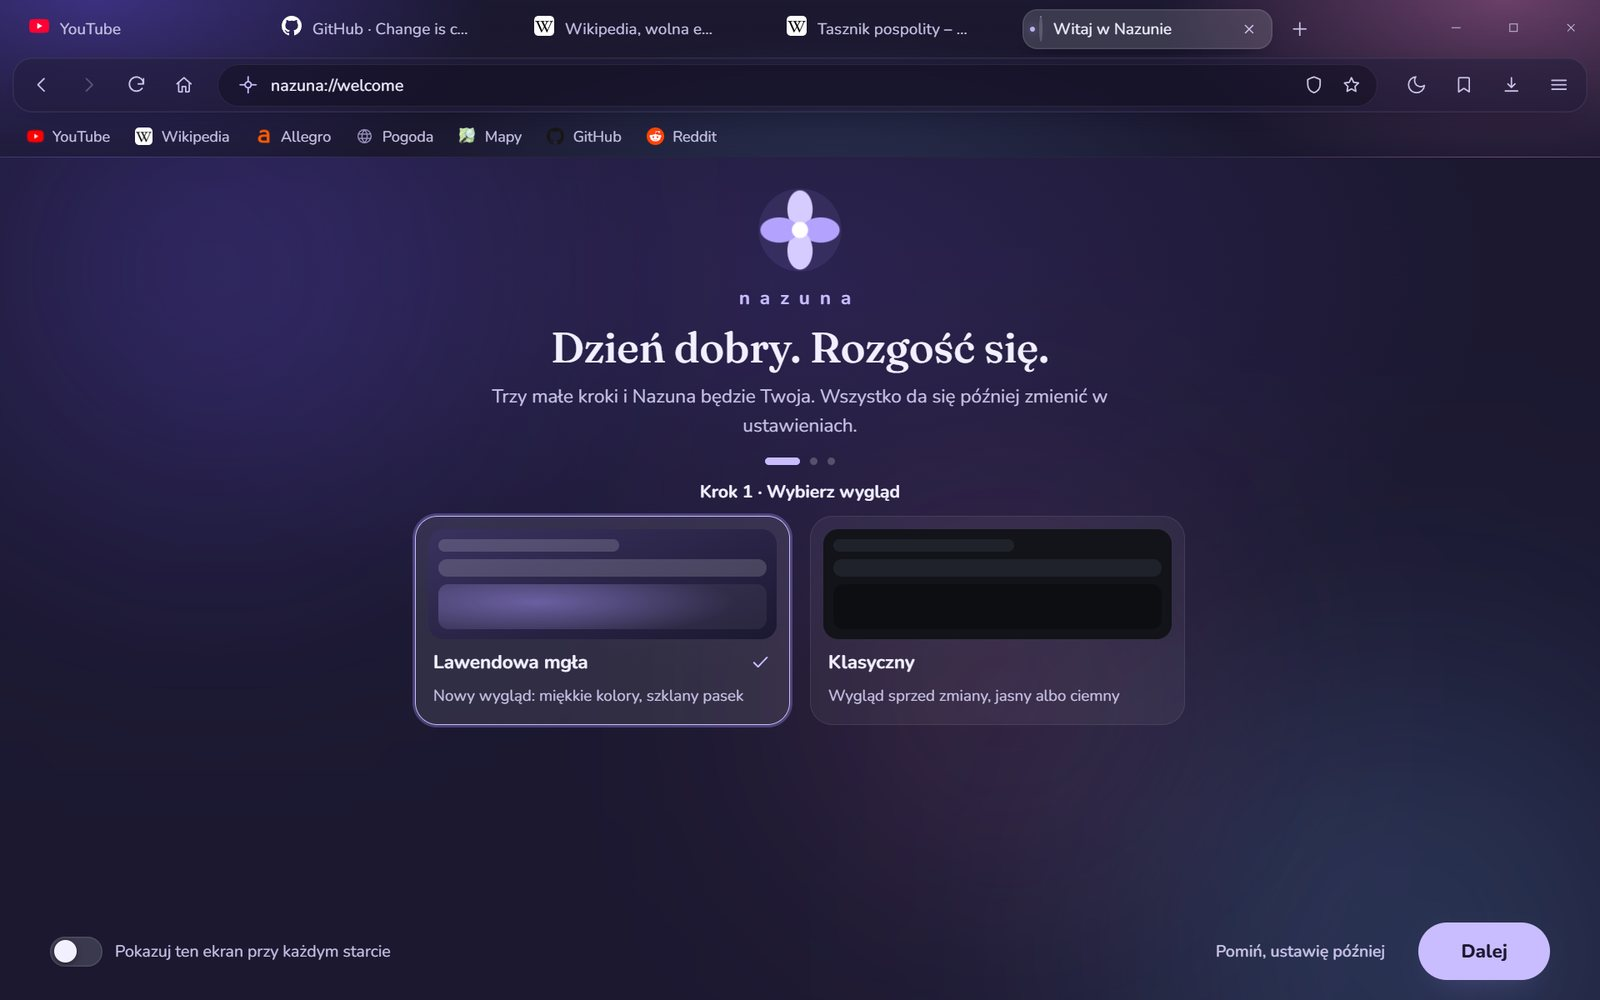
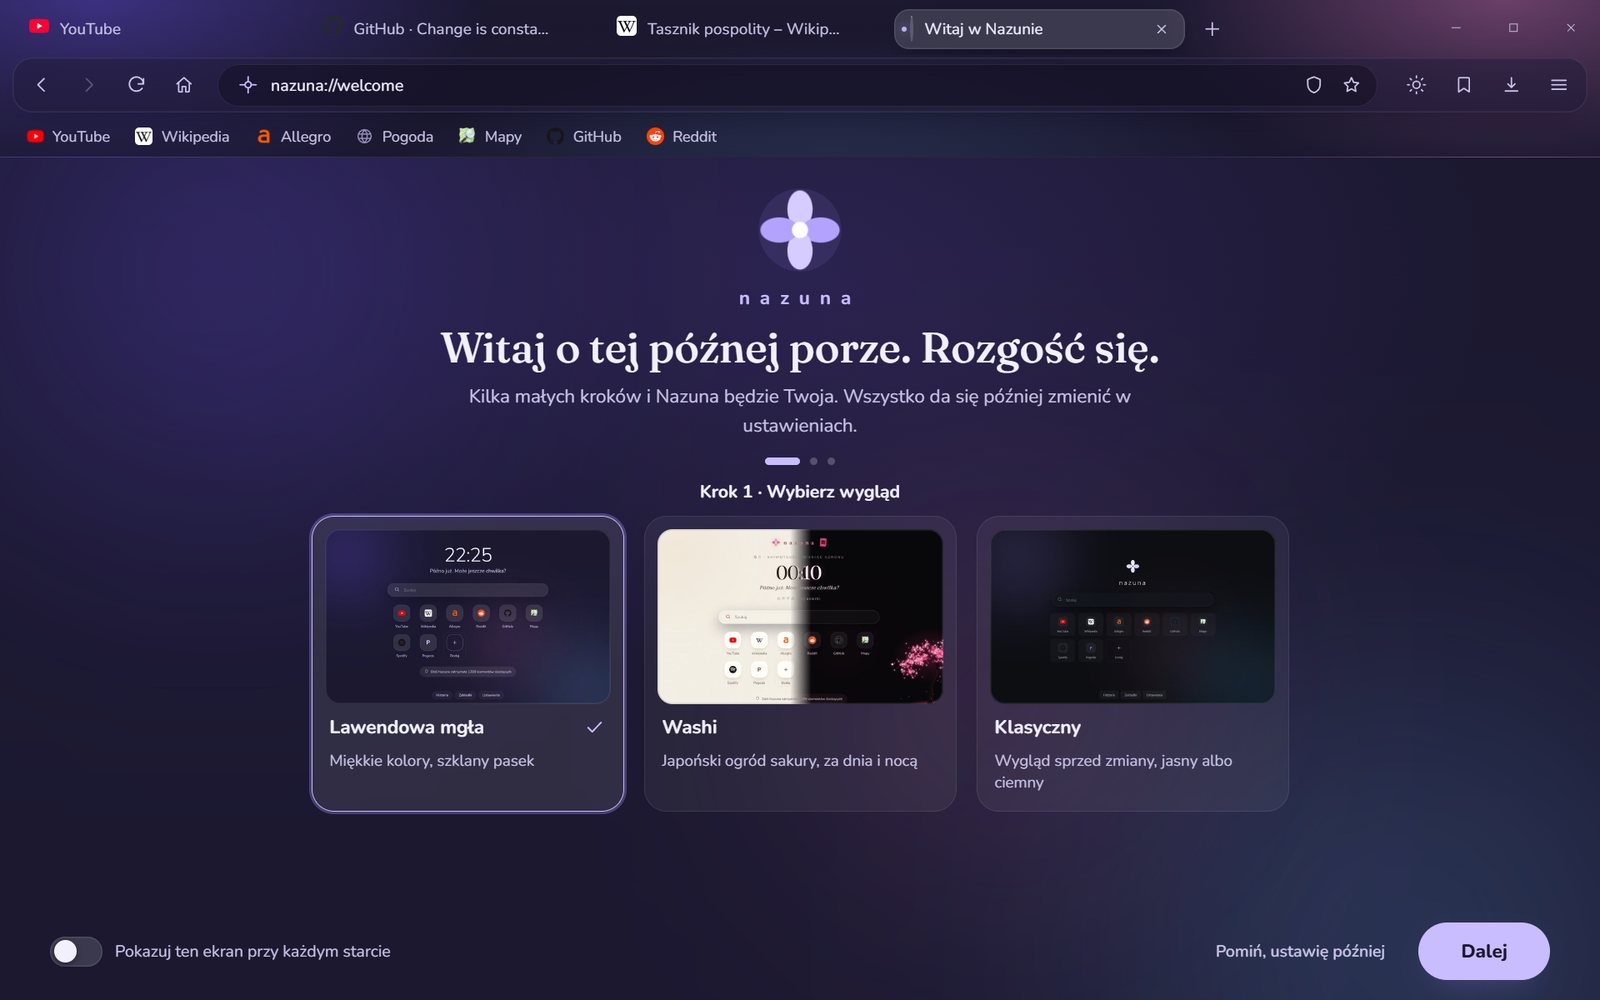
Strona: Washi dzien i noc, przenoszenie zakladek, bez akcentow

diff --git a/docs/index.html b/docs/index.html
@@ -196,7 +196,7 @@ footer p { margin: 4px 0; }
       <ellipse class="pl p4" cx="27" cy="50" rx="21" ry="14" fill="#b3a3ff"/>
       <circle class="sr" cx="50" cy="50" r="9" fill="#fff"/>
     </svg>
-    <span class="etykieta">Nowość w wersji 0.1.99</span>
+    <span class="etykieta">Nowość: Washi, japoński ogród dzień i noc</span>
     <h1>Nowa Nazuna.<br><em>Lawendowa mgła.</em></h1>
     <p class="lead">Ta sama szybka i prywatna przeglądarka, tylko w nowym, spokojnym wyglądzie: miękkie kolory, szklany pasek i nowa karta, na którą chce się patrzeć.</p>
     <div class="cta">
@@ -238,21 +238,53 @@ footer p { margin: 4px 0; }
     <div class="naglowek">
       <span class="nr">Kolory</span>
       <h2>Wybierz <em>swój nastrój</em></h2>
-      <p>Trzy zestawy kolorów tła i kilka akcentów. Zmiana działa od razu, w całej przeglądarce.</p>
+      <p>W Lawendowej mgle trzy zestawy kolorów tła. Zmiana działa od razu, w całej przeglądarce.</p>
     </div>
     <div class="zakladki" role="tablist" aria-label="Kolory tła" data-grupa="tlo">
       <button class="zakladka" role="tab" aria-selected="true" data-img="0"><span class="kropka" style="background:linear-gradient(135deg,#5b47c9,#d977b6)"></span>Lawenda</button>
       <button class="zakladka" role="tab" aria-selected="false" data-img="1"><span class="kropka" style="background:linear-gradient(135deg,#d977b6,#ffb199)"></span>Róż</button>
       <button class="zakladka" role="tab" aria-selected="false" data-img="2"><span class="kropka" style="background:linear-gradient(135deg,#2c64dc,#4696ff)"></span>Morski</button>
-      <button class="zakladka" role="tab" aria-selected="false" data-img="3"><span class="kropka" style="background:#ff7f6b"></span>Akcent koralowy</button>
-      <button class="zakladka" role="tab" aria-selected="false" data-img="4"><span class="kropka" style="background:#e3b341"></span>Akcent złoty</button>
     </div>
     <div class="okno warstwy" data-grupa="tlo">
       <img class="widoczne" src="img/nowa-karta.jpg" alt="Tło lawendowe" width="1600" height="1000">
       <img src="img/kolor-roz.jpg" alt="Tło różowe" width="1600" height="1000" loading="lazy">
       <img src="img/kolor-morski.jpg" alt="Tło morskie, głęboki błękit" width="1600" height="1000" loading="lazy">
-      <img src="img/akcent-koralowy.jpg" alt="Akcent koralowy" width="1600" height="1000" loading="lazy">
-      <img src="img/akcent-zloty.jpg" alt="Akcent złoty" width="1600" height="1000" loading="lazy">
+    </div>
+  </section>
+
+  <section class="pojaw">
+    <div class="naglowek">
+      <span class="nr">Trzy wyglądy</span>
+      <h2>Mgła, papier <em>albo klasyka</em></h2>
+      <p>Lawendowa mgła, japoński ogród Washi (za dnia papier, nocą świecąca sakura) albo Klasyczny wygląd sprzed zmiany. Przełączasz jednym kliknięciem w ustawieniach.</p>
+    </div>
+    <div class="zakladki" role="tablist" aria-label="Wygląd Nazuny" data-grupa="wyglad">
+      <button class="zakladka" role="tab" aria-selected="true" data-img="0"><span class="kropka" style="background:linear-gradient(135deg,#5b47c9,#1b1830)"></span>Lawendowa mgła</button>
+      <button class="zakladka" role="tab" aria-selected="false" data-img="1"><span class="kropka" style="background:linear-gradient(135deg,#f6f1e7 55%,#eaa2b6 56%)"></span>Washi dzień</button>
+      <button class="zakladka" role="tab" aria-selected="false" data-img="2"><span class="kropka" style="background:linear-gradient(135deg,#08070a 55%,#ff5c97 56%)"></span>Washi noc</button>
+      <button class="zakladka" role="tab" aria-selected="false" data-img="3"><span class="kropka" style="background:#121419"></span>Klasyczny</button>
+    </div>
+    <div class="okno warstwy" data-grupa="wyglad">
+      <img class="widoczne" src="img/nowa-karta.jpg" alt="Wygląd Lawendowa mgła" width="1600" height="1000" loading="lazy">
+      <img src="img/washi-nowa-karta.jpg" alt="Washi dzień: kremowy papier, pastelowe drzewo sakury i logo z pieczęcią" width="1600" height="1000" loading="lazy">
+      <img src="img/washi-noc-nowa-karta.jpg" alt="Washi noc: głęboka czerń i świecące różowe drzewo sakury" width="1600" height="1000" loading="lazy">
+      <img src="img/klasyczny-ciemny.jpg" alt="Wygląd Klasyczny" width="1600" height="1000" loading="lazy">
+    </div>
+  </section>
+
+  <section class="pojaw">
+    <div class="dwie odwr">
+      <div class="tekst">
+        <span class="nr">Washi</span>
+        <h2>Japoński ogród <em>za dnia i nocą</em></h2>
+        <p style="color:var(--tekst-2)">Za dnia kremowy papier z pastelową sakurą, nocą głęboka czerń i świecące różowe drzewo. Pora zmienia się sama razem z przyciskiem słońca i księżyca.</p>
+        <ul class="lista">
+          <li>Logo Nazuny z pieczęcią 薺 (tak po japońsku pisze się „nazuna”)</li>
+          <li>Dawna japońska nazwa miesiąca i powitanie, np. こんばんは · konbanwa</li>
+          <li>Okno prywatne zostaje turkusowe, żeby od razu było widać różnicę</li>
+        </ul>
+      </div>
+      <div class="okno"><img src="img/washi-noc-strona.jpg" alt="Washi noc: ciemny pasek nad stroną Wikipedii" width="1600" height="1000" loading="lazy"></div>
     </div>
   </section>
 
@@ -276,10 +308,11 @@ footer p { margin: 4px 0; }
     <div class="dwie odwr">
       <div class="tekst">
         <span class="nr">Pierwsze uruchomienie</span>
-        <h2>Trzy kroki <em>i gotowe</em></h2>
-        <p style="color:var(--tekst-2)">Na powitanie Nazuna pyta tylko o to, co ważne: wygląd i kolory. Potem pokazuje, jak Cię chroni. Wszystko da się później zmienić w ustawieniach.</p>
+        <h2>Kilka kroków <em>i gotowe</em></h2>
+        <p style="color:var(--tekst-2)">Na powitanie Nazuna pyta tylko o to, co ważne: wygląd i kolory. Potem pomaga zabrać zakładki z poprzedniej przeglądarki i pokazuje, jak Cię chroni. Wszystko da się później zmienić w ustawieniach.</p>
         <ul class="lista">
-          <li>Lawendowa mgła albo Klasyczny wygląd</li>
+          <li>Lawendowa mgła, Washi albo Klasyczny</li>
+          <li>Zakładki z Chrome, Edge, Brave, Opery i Firefoksa jednym kliknięciem</li>
           <li>Podgląd zmian na żywo</li>
           <li>Ekran powitalny można przywołać z menu</li>
         </ul>
@@ -331,13 +364,16 @@ footer p { margin: 4px 0; }
       <button class="zdj" data-duze="img/o-nazunie.jpg"><div class="okno"><img src="img/o-nazunie.jpg" alt="O Nazunie" width="1600" height="1000" loading="lazy"></div><span>O Nazunie</span></button>
       <button class="zdj" data-duze="img/klasyczny-jasny.jpg"><div class="okno"><img src="img/klasyczny-jasny.jpg" alt="Klasyczny jasny" width="1600" height="1000" loading="lazy"></div><span>Klasyczny, jasny</span></button>
       <button class="zdj" data-duze="img/klasyczny-ciemny.jpg"><div class="okno"><img src="img/klasyczny-ciemny.jpg" alt="Klasyczny ciemny" width="1600" height="1000" loading="lazy"></div><span>Klasyczny, ciemny</span></button>
+      <button class="zdj" data-duze="img/washi-ustawienia.jpg"><div class="okno"><img src="img/washi-ustawienia.jpg" alt="Ustawienia w wyglądzie Washi" width="1600" height="1000" loading="lazy"></div><span>Washi dzień, ustawienia</span></button>
+      <button class="zdj" data-duze="img/washi-noc-ustawienia.jpg"><div class="okno"><img src="img/washi-noc-ustawienia.jpg" alt="Ustawienia w Washi nocą" width="1600" height="1000" loading="lazy"></div><span>Washi noc, ustawienia</span></button>
+      <button class="zdj" data-duze="img/washi-powitanie.jpg"><div class="okno"><img src="img/washi-powitanie.jpg" alt="Ekran powitalny w wyglądzie Washi" width="1600" height="1000" loading="lazy"></div><span>Washi, powitanie</span></button>
       <button class="zdj" data-duze="img/kolor-morski.jpg"><div class="okno"><img src="img/kolor-morski.jpg" alt="Mgła w kolorze morskim" width="1600" height="1000" loading="lazy"></div><span>Mgła, morski</span></button>
     </div>
   </section>
 
   <div class="koniec pojaw">
     <h2>Gotowa, <em>kiedy Ty jesteś</em></h2>
-    <p class="lead">Bloker reklam, osobne ciasteczka dla każdej strony i ostrzeżenia przed oszustwami działają od pierwszej minuty. Bez AI, bez zakładania konta.</p>
+    <p class="lead">Bloker reklam, osobne ciasteczka dla każdej strony i ostrzeżenia przed wirusami i wyłudzaniem haseł działają od pierwszej minuty. Bez AI, bez zakładania konta.</p>
     <a class="przycisk" data-pobierz href="https://github.com/patryktafel/nazuna-updates/releases/latest">
       <svg viewBox="0 0 24 24" fill="none" stroke="currentColor" stroke-width="2.4" stroke-linecap="round" stroke-linejoin="round" aria-hidden="true"><path d="M12 4v11m0 0-4.5-4.5M12 15l4.5-4.5M5 20h14"/></svg>
       Pobierz Nazunę
